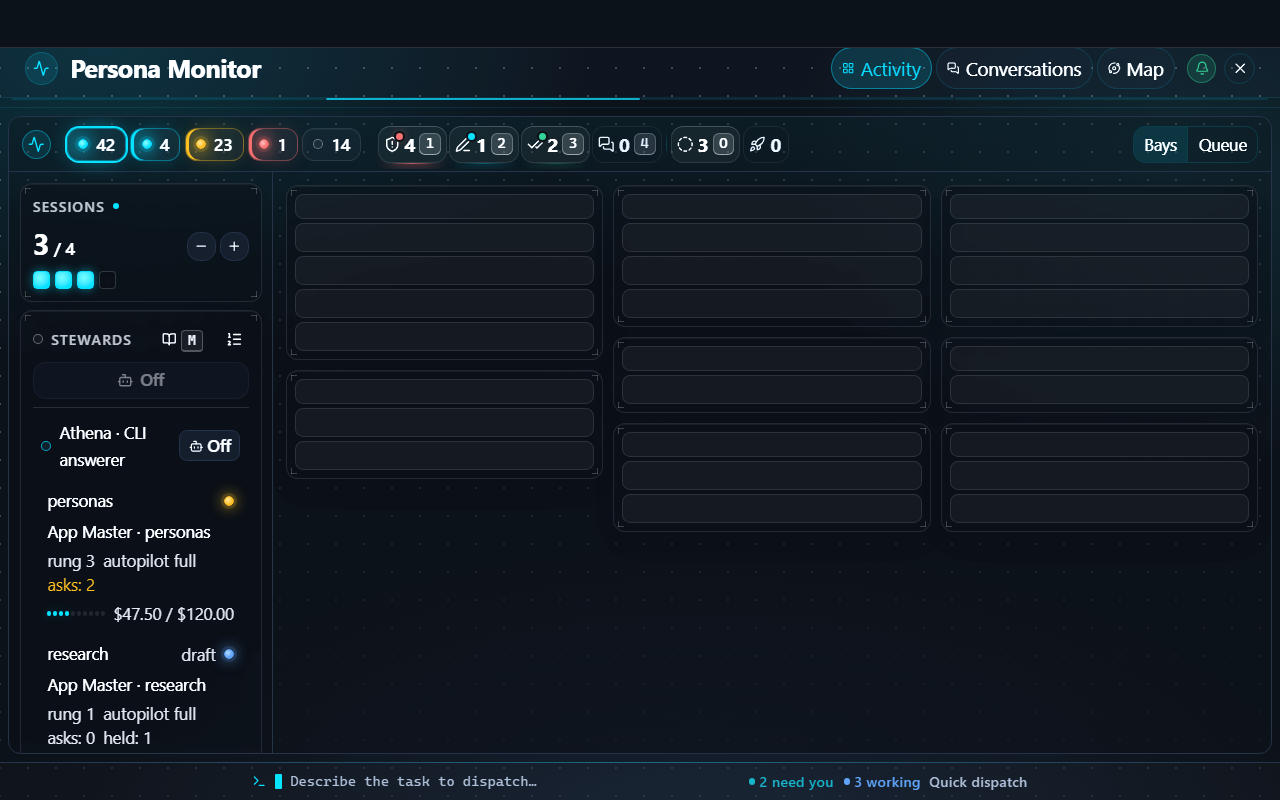
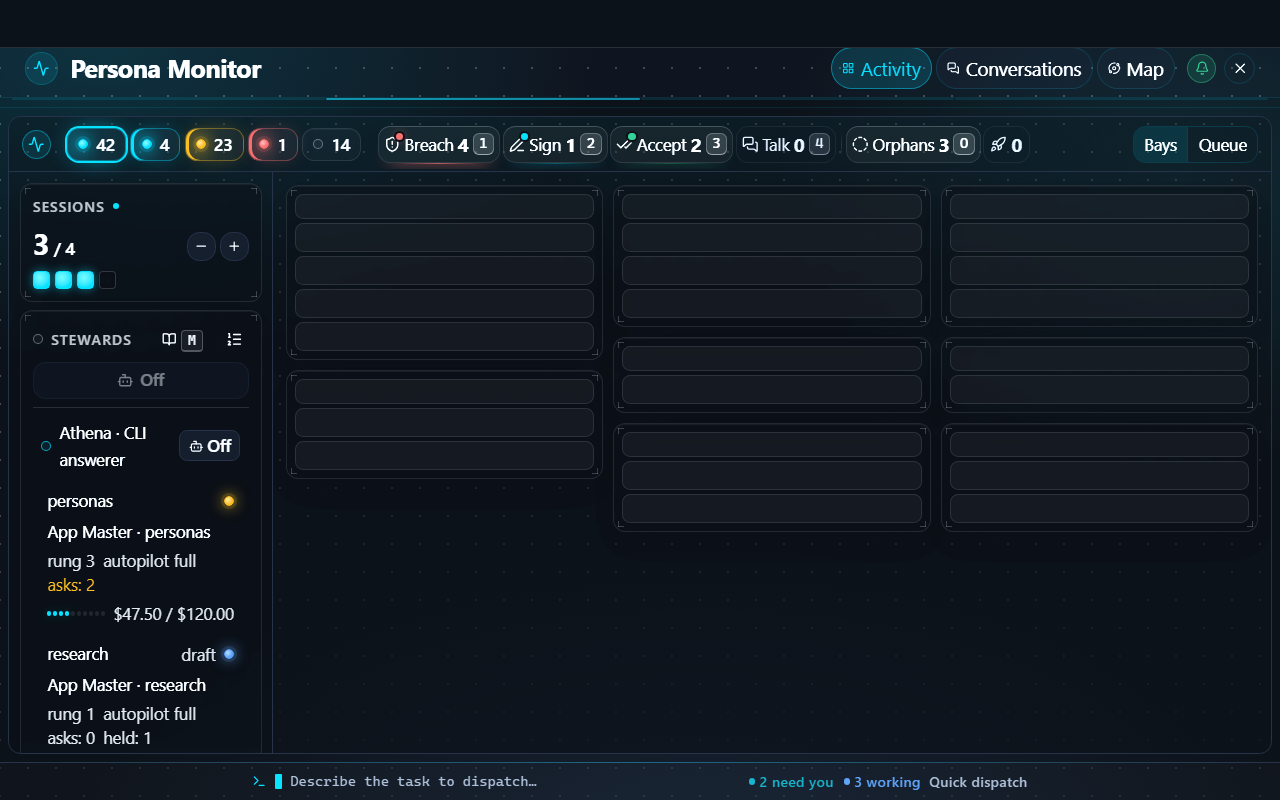
feat(decision-center): lane buttons read as lanes, mandate rail keys stand clear
The WP4 lane buttons printed icon + count + a boxed key and no lane name at
1280 (the strip measured itself into compact and never came back), so "1 [2]"
read as two numbers. The name now always prints at body size; the count stays
the bold figure; the key is an inset keycap at the trailing edge. The strip
steps down one level at a time while it overflows (first Ready's label and the
gaps, then the keycaps) and steps back up when it has the width that level
needed, so a transient narrow layout no longer pins it compact. Measured in
the harness: at 1280 the strip is 652 of 747 px with names and keys; at 1920
everything prints, Ready to dispatch included.

The mandate rail put each keycap flush against its label (the button wraps its
children in one inline span, so the flex-1 label did nothing) and painted
Suspend solid red at rest. Keys now ride iconRight with their own margin, and
Suspend is a calm door whose pause glyph carries the red (annunciator grammar).

Reshot wp4-shots/bar at 1280 and 1920, dark and light.

Changed region(s): [[0.3125, 0.1562, 0.8125, 0.2188]]

diff --git a/src/features/fleet/monitor/grid/prototype/entry-e/mandate/MandateRail.tsx b/src/features/fleet/monitor/grid/prototype/entry-e/mandate/MandateRail.tsx
@@ -3,6 +3,10 @@
 // selected act's scope back (N). Signing and widening are the Sign card's
 // (WP5), so they are not offered here at all rather than shown disabled.
 //
+// Suspend is calm at rest (annunciator grammar): a neutral door whose pause
+// glyph carries the red, never a solid red slab on a quiet page. Each key sits
+// clear of its label, so a label that wraps never runs into its keycap.
+//
 // Every door awaits its write (AsyncButton) and reports a refusal in place:
 // an irreversible act says why before anything is pressed, and if the backend
 // refuses anyway (`forbidden`) the same reason stays on screen.
@@ -22,6 +26,11 @@ export function narrowableScope(mandate: MandateSummary, act: CharterAct | null)
   const scope = act ? asScope(act.scope) : null;
   if (!scope || mandate.envelope.envelopeVersion === 0) return null;
   return mandate.envelope.decideScopes.includes(scope) ? scope : null;
+}
+
+/** A door's key, kept clear of its label: the button's gap plus its own margin. */
+function RailKey({ k }: { k: string }) {
+  return <span className="ml-1.5 inline-flex"><Kbd>{k}</Kbd></span>;
 }
 
 export function canRevert(act: CharterAct | null): boolean {
@@ -51,19 +60,20 @@ export function MandateRail({ mandate, held, act, notice, onSuspend, onRevert, o
     <aside className="flex w-[300px] flex-shrink-0 flex-col gap-3 overflow-y-auto border-l border-foreground/10 pl-4" data-testid="mandate-rail">
       <div className="flex flex-col gap-2 border-b border-foreground/10 pb-3">
         <AsyncButton
-          variant={suspended ? 'secondary' : 'danger'}
+          variant="secondary"
           size="sm"
           block
           onClick={onSuspend}
-          icon={suspended ? <Play className="h-4 w-4" aria-hidden /> : <Pause className="h-4 w-4" aria-hidden />}
+          icon={suspended ? <Play className="h-4 w-4" aria-hidden /> : <Pause className="h-4 w-4 text-status-error" aria-hidden />}
+          iconRight={<RailKey k="S" />}
           aria-keyshortcuts="S"
           data-testid="mandate-suspend"
         >
-          <span className="flex-1 text-left">{suspended ? m.ml_resume : m.ml_suspend}</span><Kbd>S</Kbd>
+          {suspended ? m.ml_resume : m.ml_suspend}
         </AsyncButton>
         {act && (canRevert(act) ? (
-          <AsyncButton variant="secondary" size="sm" block onClick={onRevert} icon={<Undo2 className="h-4 w-4" aria-hidden />} aria-keyshortcuts="V" data-testid="mandate-revert">
-            <span className="flex-1 text-left">{m.ml_revert}</span><Kbd>V</Kbd>
+          <AsyncButton variant="secondary" size="sm" block onClick={onRevert} icon={<Undo2 className="h-4 w-4" aria-hidden />} iconRight={<RailKey k="V" />} aria-keyshortcuts="V" data-testid="mandate-revert">
+            {m.ml_revert}
           </AsyncButton>
         ) : (
           <p className="typo-caption" data-testid="mandate-revert-reason">
@@ -71,8 +81,8 @@ export function MandateRail({ mandate, held, act, notice, onSuspend, onRevert, o
           </p>
         ))}
         {narrow && (
-          <AsyncButton variant="secondary" size="sm" block onClick={onNarrow} icon={<Shrink className="h-4 w-4" aria-hidden />} aria-keyshortcuts="N" data-testid="mandate-narrow">
-            <span className="flex-1 text-left">{tx(m.ml_narrow, { scope: scopeLabel(m, narrow) })}</span><Kbd>N</Kbd>
+          <AsyncButton variant="secondary" size="sm" block onClick={onNarrow} icon={<Shrink className="h-4 w-4" aria-hidden />} iconRight={<RailKey k="N" />} aria-keyshortcuts="N" data-testid="mandate-narrow">
+            {tx(m.ml_narrow, { scope: scopeLabel(m, narrow) })}
           </AsyncButton>
         )}
         <p className="typo-caption text-status-warning" role="status" data-testid="mandate-notice">{notice}</p>

diff --git a/src/features/decision-center/hub/lanes/LaneButton.tsx b/src/features/decision-center/hub/lanes/LaneButton.tsx
@@ -1,7 +1,11 @@
 /**
  * One mandate-lane button on the command bar (setting `lanes`): the lane's
- * glyph with its lamp, its name, the count and the key that opens it, printed
- * inside the control (`1`-`4`, `O`).
+ * glyph with its lamp, its NAME at body size, the count in bold figures, and
+ * the key that opens it (`1`-`4`, `O`) as an inset keycap at the button's
+ * trailing edge: smaller mono on a hairline fill, so it reads as a key and not
+ * as a second count. The name is never dropped: "1 [2]" read as two numbers.
+ * When the bar is narrow it tightens first (`fit` 1) and then sends the
+ * keycap to the tooltip (`fit` 2); the name and the count always stay.
  *
  * Same aurora reading as a chip (`StripChip`): lit by its lamp only when it
  * holds something; dark and pressable at zero; a source that did not answer
@@ -19,18 +23,21 @@ import { Keycap, Lamp } from '../../deck/parts';
 import { LANE_ICON, LANE_KEY, laneHint, laneLabel } from '../../lanes/laneMeta';
 import type { LaneCount, LaneKey } from '../../lanes/laneModel';
 
+export type LaneFit = 0 | 1 | 2;
+
 export interface LaneButtonProps {
   lane: LaneKey;
   count: LaneCount;
   /** The first snapshot read settled; before it the count is a ghost, never 0. */
   settled: boolean;
-  compact: boolean;
+  /** 0 = roomy, 1 = tight gaps, 2 = tight and no keycap (LaneStrip measures). */
+  fit: LaneFit;
   open: boolean;
   onPress: (lane: LaneKey, anchor: HTMLElement) => void;
 }
 
 export const LaneButton = forwardRef<HTMLButtonElement, LaneButtonProps>(function LaneButton(
-  { lane, count, settled, compact, open, onPress },
+  { lane, count, settled, fit, open, onPress },
   ref,
 ) {
   const { t, tx } = useTranslation();
@@ -61,13 +68,13 @@ export const LaneButton = forwardRef<HTMLButtonElement, LaneButtonProps>(functio
         data-zero={zero ? '' : undefined}
         data-failed={count.failed ? '' : undefined}
         data-open={open ? '' : undefined}
-        className={`au-chip au-l-${count.lamp} rounded-input hover:bg-transparent ${count.failed ? 'text-status-error' : zero ? 'text-muted-foreground' : 'text-foreground'} ${compact ? 'px-1.5! [&>span]:gap-1' : 'px-2! [&>span]:gap-1.5'} [&>span]:inline-flex [&>span]:items-center`}
+        className={`au-chip au-l-${count.lamp} rounded-input hover:bg-transparent ${count.failed ? 'text-status-error' : zero ? 'text-muted-foreground' : 'text-foreground'} ${fit === 0 ? 'pl-2! pr-1.5! [&>span]:gap-1.5' : 'px-1.5! [&>span]:gap-1'} [&>span]:inline-flex [&>span]:items-center`}
       >
         <span className="relative inline-flex">
           <Icon className="h-4 w-4" aria-hidden />
           {lit && <Lamp tone={count.lamp} className="au-chip-lamp" />}
         </span>
-        {!compact && <span className="typo-caption text-current">{label}</span>}
+        <span className="typo-body text-current" data-testid={`decision-lane-${lane}-name`}>{label}</span>
         {count.failed ? (
           <TriangleAlert className="h-4 w-4 text-status-error" aria-hidden data-testid={`decision-lane-${lane}-failed`} />
         ) : settled ? (
@@ -75,7 +82,7 @@ export const LaneButton = forwardRef<HTMLButtonElement, LaneButtonProps>(functio
         ) : (
           <span className="au-hero-tile inline-block h-4 w-3 rounded-interactive" aria-hidden />
         )}
-        <Keycap>{key}</Keycap>
+        {fit < 2 && <Keycap>{key}</Keycap>}
       </Button>
     </Tooltip>
   );

diff --git a/src/features/decision-center/hub/lanes/LaneStrip.tsx b/src/features/decision-center/hub/lanes/LaneStrip.tsx
@@ -5,8 +5,11 @@
  * Queue view's header (PLAN section 2).
  *
  * A SLOT like the chip `Strip`: it takes counts and reports presses; the lane
- * hub owns the data. The same width honesty: it measures itself and drops the
- * lane names to the tooltips when they would not fit.
+ * hub owns the data. The same width honesty: it measures itself and steps
+ * down one level at a time while the row would not fit: first Ready's label
+ * goes to its tooltip and the gaps tighten, then the keycaps go to the
+ * tooltips. The lane names stay: a lane is read by its name, not its glyph.
+ * It steps back up when the row has the width it needed at the level above.
  */
 import '../../deck/aurora.css';
 import { useLayoutEffect, useRef, useState, type MutableRefObject } from 'react';
@@ -17,7 +20,7 @@ import { useTranslation } from '@/i18n/useTranslation';
 import type { ChipCount } from '../../model/decisionModel';
 import { OPERATOR_LANES, type LaneCounts, type LaneKey } from '../../lanes/laneModel';
 import { StripChip } from '../visual/StripChip';
-import { LaneButton } from './LaneButton';
+import { LaneButton, type LaneFit } from './LaneButton';
 
 export type LanePeekKey = LaneKey | 'ready';
 export type LaneRefs = MutableRefObject<Partial<Record<LanePeekKey, HTMLButtonElement | null>>>;
@@ -35,26 +38,28 @@ export function LaneStrip({ counts, settled, ready, open, refs, onLane, onReady 
   const m = t.monitor;
   const still = useReducedMotion();
   const rowRef = useRef<HTMLDivElement>(null);
-  const [compact, setCompact] = useState(false);
-  const labelWidth = useRef(0);
+  const [fit, setFit] = useState<LaneFit>(0);
+  /** The row width each level needed when it overflowed (index = level). */
+  const needed = useRef<number[]>([]);
 
   useLayoutEffect(() => {
     const row = rowRef.current;
     if (!row) return;
-    const fit = () => {
-      if (!compact && row.scrollWidth > row.clientWidth + 1) {
-        labelWidth.current = row.scrollWidth;
-        setCompact(true);
-      } else if (compact && labelWidth.current > 0 && row.clientWidth >= labelWidth.current) {
-        setCompact(false);
+    const measure = () => {
+      if (fit < 2 && row.scrollWidth > row.clientWidth + 1) {
+        needed.current[fit] = row.scrollWidth;
+        setFit((fit + 1) as LaneFit);
+      } else if (fit > 0 && (needed.current[fit - 1] ?? Infinity) <= row.clientWidth) {
+        setFit((fit - 1) as LaneFit);
       }
     };
-    fit();
+    measure();
     if (typeof ResizeObserver === 'undefined') return;
-    const ro = new ResizeObserver(fit);
+    const ro = new ResizeObserver(measure);
     ro.observe(row);
     return () => ro.disconnect();
-  }, [compact]);
+  }, [fit]);
+  const compact = fit > 0;
 
   const lane = (l: LaneKey) => (
     <LaneButton
@@ -63,7 +68,7 @@ export function LaneStrip({ counts, settled, ready, open, refs, onLane, onReady 
       lane={l}
       count={counts[l]}
       settled={settled}
-      compact={compact}
+      fit={fit}
       open={open === l}
       onPress={onLane}
     />

diff --git a/src/features/decision-center/hub/lanes/__tests__/laneButton.test.tsx b/src/features/decision-center/hub/lanes/__tests__/laneButton.test.tsx
@@ -1,0 +1,39 @@
+/**
+ * The lane button reads as a lane (mandate-lanes WP7 polish of WP4): the
+ * lane's NAME is always printed, the count is its own figure, and the key is
+ * a keycap inside the button that is the first thing to go when the bar is
+ * narrow; the name never goes.
+ */
+import { describe, expect, it, vi } from 'vitest';
+import { render, screen } from '@testing-library/react';
+
+import type { LaneCount } from '../../../lanes/laneModel';
+import { LaneButton, type LaneFit } from '../LaneButton';
+
+const COUNT: LaneCount = { n: 2, lamp: 'warning', failed: false, failedSources: [] };
+
+function renderAt(fit: LaneFit) {
+  return render(<LaneButton lane="sign" count={COUNT} settled fit={fit} open={false} onPress={vi.fn()} />);
+}
+
+describe('LaneButton', () => {
+  it('prints the name, the count and the key when roomy', () => {
+    renderAt(0);
+    const btn = screen.getByTestId('decision-lane-sign');
+    expect(screen.getByTestId('decision-lane-sign-name').textContent).toBe('Sign');
+    expect(btn.querySelector('kbd')?.textContent).toBe('2');
+    expect(btn.querySelector('.au-count')?.textContent).toBe('2');
+  });
+
+  it('keeps the keycap when tight, drops only the keycap when narrow', () => {
+    const { unmount } = renderAt(1);
+    expect(screen.getByTestId('decision-lane-sign').querySelector('kbd')).not.toBeNull();
+    unmount();
+    renderAt(2);
+    const btn = screen.getByTestId('decision-lane-sign');
+    expect(btn.querySelector('kbd')).toBeNull();
+    expect(screen.getByTestId('decision-lane-sign-name').textContent).toBe('Sign');
+    // The key still reaches assistive tech and the tooltip.
+    expect(btn.getAttribute('aria-keyshortcuts')).toBe('2');
+  });
+});
